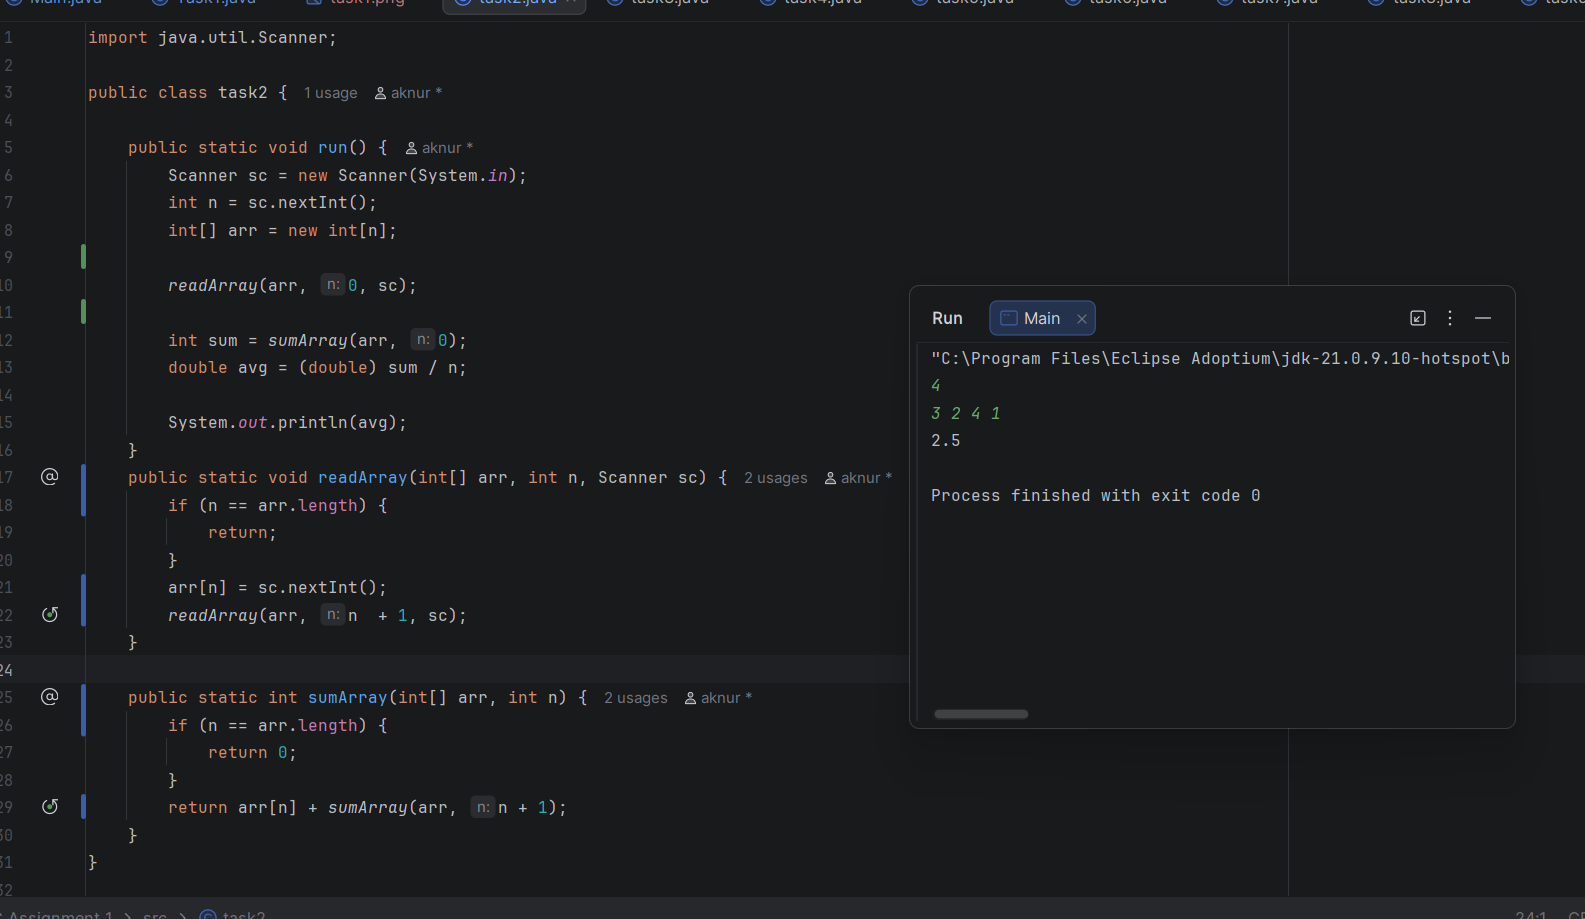
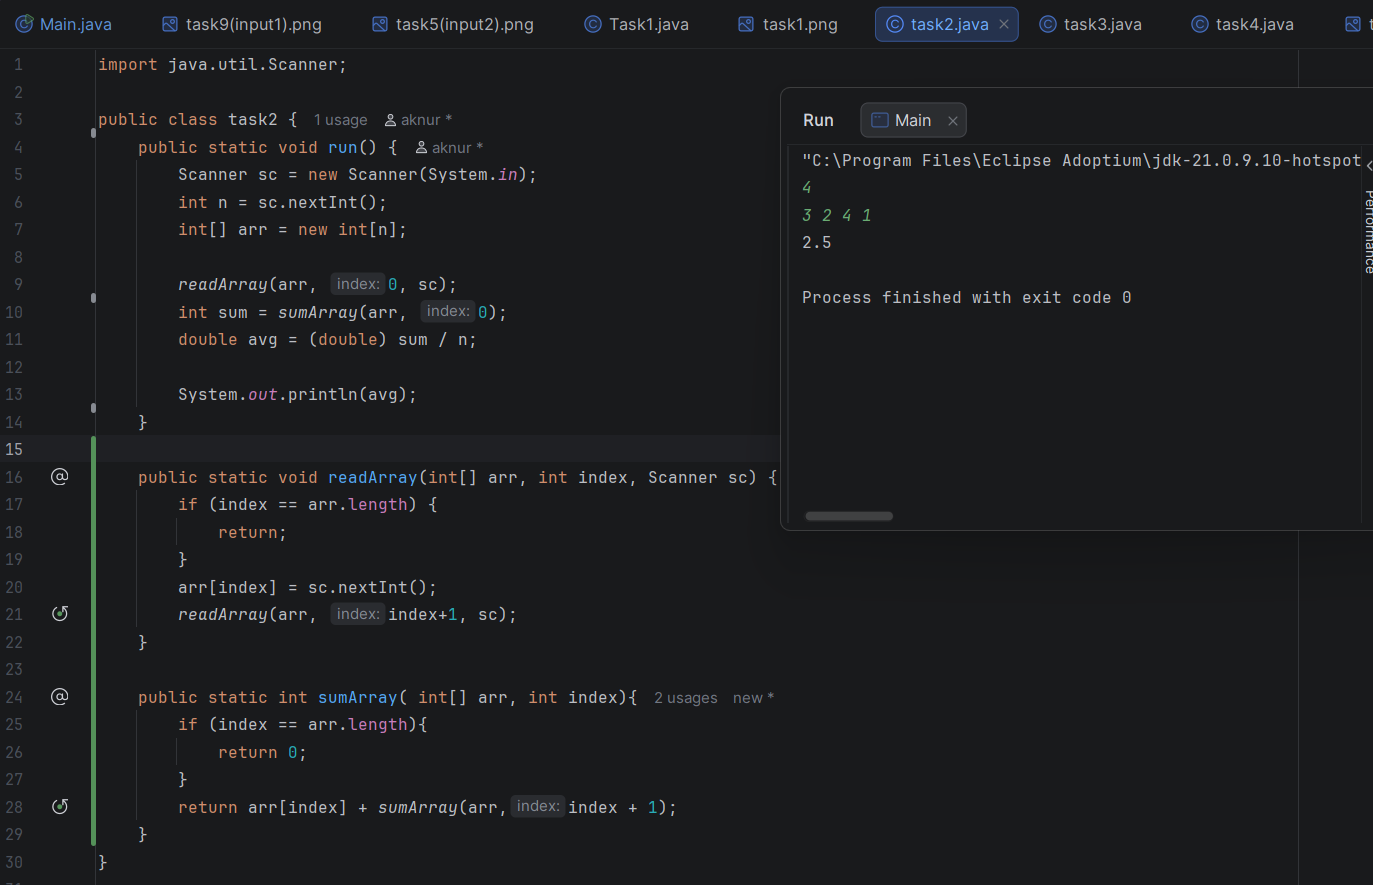
Adding screenshots

diff --git a/src/task2.java b/src/task2.java
@@ -1,31 +1,30 @@
 import java.util.Scanner;
 
 public class task2 {
-
     public static void run() {
         Scanner sc = new Scanner(System.in);
         int n = sc.nextInt();
         int[] arr = new int[n];
 
         readArray(arr, 0, sc);
-
         int sum = sumArray(arr, 0);
         double avg = (double) sum / n;
 
         System.out.println(avg);
     }
-    public static void readArray(int[] arr, int n, Scanner sc) {
-        if (n == arr.length) {
+
+    public static void readArray(int[] arr, int index, Scanner sc) {
+        if (index == arr.length) {
             return;
         }
-        arr[n] = sc.nextInt();
-        readArray(arr, n  + 1, sc);
+        arr[index] = sc.nextInt();
+        readArray(arr, index+1, sc);
     }
 
-    public static int sumArray(int[] arr, int n) {
-        if (n == arr.length) {
+    public static int sumArray( int[] arr, int index){
+        if (index == arr.length){
             return 0;
         }
-        return arr[n] + sumArray(arr, n + 1);
+        return arr[index] + sumArray(arr,index + 1);
     }
 }

diff --git a/src/task8.java b/src/task8.java
@@ -15,14 +15,14 @@ public class task8 {
         }
     }
 
-    public static boolean checkDigits(String s, int n){
-        if (n == s.length()){
+    public static boolean checkDigits(String s, int index){
+        if (index == s.length()){
             return true;
         }
 
-        if (!Character.isDigit(s.charAt(n))){
+        if (!Character.isDigit(s.charAt(index))){
             return false;
         }
-        return checkDigits(s, n+1);
+        return checkDigits(s, index+1);
     }
 }

diff --git a/src/Main.java b/src/Main.java
@@ -4,6 +4,6 @@ import java.util.Scanner;
 public class Main {
     public static void main(String[] args) {
         Scanner sc = new Scanner(System.in);
-        Task1.run();
+        task2.run();
     }
 }
